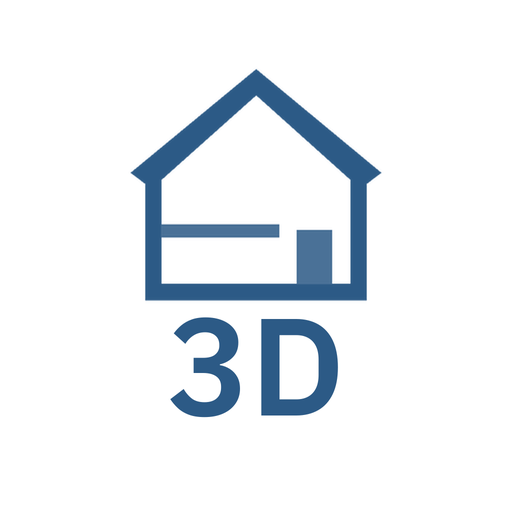
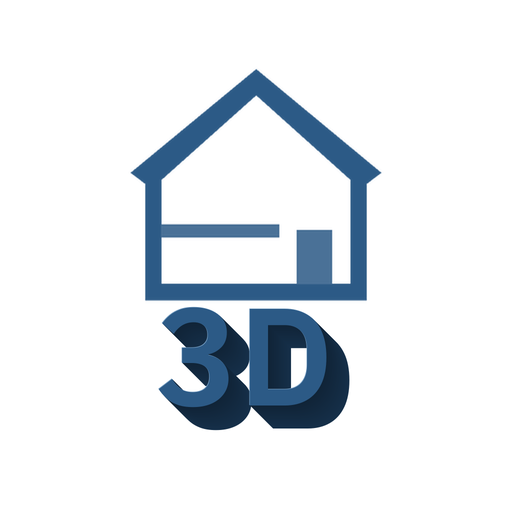
Icône : « 3D » en relief (demande de Mauro)
Claude-Session: https://claude.ai/code/session_01YRwZSgxCtXVm6EKCbHAFP6

Changed region(s): [[0.3125, 0.5938, 0.6875, 0.8438]]

diff --git a/outils/icone_app.py b/outils/icone_app.py
@@ -7,7 +7,7 @@ apple-touch-icon2.png (180, sans transparence), favicon2-64.png. Usage : python3
 import os
 from PIL import Image, ImageDraw, ImageFont
 R=os.path.join(os.path.dirname(os.path.abspath(__file__)),'..'); IC=os.path.join(R,'icones')
-BLEU=(44,90,134); BLANC=(255,255,255)
+BLEU=(44,90,134); BLANC=(255,255,255); FONCE=(22,48,74); CLAIR=(120,160,196)
 src=Image.open(os.path.join(IC,'source-maison.png')).convert('RGBA'); S=src.size[0]
 # part de dessin (blanc) dans chaque pixel de l'ancienne icône : canal rouge, fond 44 → dessin 255
 dessin=Image.new('L',(S,S)); px=src.load(); q=dessin.load()
@@ -19,9 +19,16 @@ def carre(T):
     # maison : 50 % de large, posée à partir de 13 % de haut ; « 3D » en dessous, en gras, centré
     lm=int(T*0.50); m=maison.resize((lm,int(maison.size[1]*lm/maison.size[0])),Image.LANCZOS)
     teinte=Image.new('RGBA',m.size,BLEU+(255,)); im.paste(teinte,((T-m.size[0])//2,int(T*0.13)),m)
+    # « 3D » en relief (Mauro, 15 octobre 2026 : « j'aimerais que ça fasse 3D ») : lettres extrudées vers le bas à droite,
+    # côté bleu foncé, face bleue, fine arête claire en haut à gauche
     d=ImageDraw.Draw(im); font=ImageFont.truetype(os.path.join(R,'polices','IBMPlexSans-SemiBold.ttf'),int(T*0.27))
-    tb=d.textbbox((0,0),'3D',font=font); tw=tb[2]-tb[0]; th=tb[3]-tb[1]
-    d.text(((T-tw)/2-tb[0],int(T*0.62)-tb[1]),'3D',fill=BLEU+(255,),font=font)
+    tb=d.textbbox((0,0),'3D',font=font); tw=tb[2]-tb[0]
+    prof=max(2,int(T*0.045)); x0=(T-tw)/2-tb[0]-prof/2; y0=int(T*0.60)-tb[1]
+    for i in range(prof,0,-1):
+        k=i/prof; cote=tuple(int(FONCE[j]*(0.75+0.25*k)) for j in range(3))
+        d.text((x0+i,y0+i),'3D',fill=cote+(255,),font=font)
+    d.text((x0-1,y0-1),'3D',fill=CLAIR+(255,),font=font)
+    d.text((x0,y0),'3D',fill=BLEU+(255,),font=font)
     return im
 def arrondi(im,r):
     T=im.size[0]; m=Image.new('L',(T,T),0); ImageDraw.Draw(m).rounded_rectangle((0,0,T-1,T-1),radius=r,fill=255); im=im.copy(); im.putalpha(m); return im

diff --git a/CLAUDE.md b/CLAUDE.md
@@ -639,7 +639,7 @@ Rendre la maquette conforme à la réalité pièce par pièce, d'après les phot
 - 15 octobre 2026 (nuit) : **audit complet de l'application** (demande de Mauro : « tests nécessaires sous forme d'audit méticuleux et professionnel », correction des problèmes mineurs, feedback structuré et propositions). **Série complète** : 201 vérifications, 198 vertes et 3 attentes périmées des tests (nom du bouton « Ouvrir » avec les éclairages, « Base d’origine » au lieu de « Base », suivi Tripo dans `.ph-suivi`), mises à jour et relancées (11 / 11). **Connecteurs** (script `connecteurs.py` du scratchpad, jeton jamais affiché) : les 9 workflows n8n actifs, Airtable à travers n8n (6 variantes, 31 photos dont 30 calées, 1 produit, 1 rendu), relecture d'un fichier (morceaux numérotés depuis 0 ; refus = HTTP 200 + `{ok:false, code:401}`), Tripo (9 850 crédits), Sketchfab (compte mauro7003), Poly Haven (521 modèles), kie.ai par n8n et en direct (10 906 crédits, 6 modèles de rendu, 6 de création), Boutique (IKEA BILLY : photo, nom, 80 × 28 × 202), Blender (PC portable vu, 1 demande « https » en échec du 1er essai), Assistant (demande réelle → B / blender), Familia (fausse clé refusée, 403), site (noindex, sw.js sans cache), CDN. **n8n** : 9 exécutions en erreur depuis le 10 octobre, toutes « Lire Airtable » (2 avec l'ancienne clé le 10, 7 pendant la coupure Airtable du 12) → nouvel essai et délais ajoutés (voir « Comptes et synchronisation »), workflows republiés. **Structure** (API simulée) : 0 fuite vers le ciel dans les 11 pièces (760 000 rayons), 0 jour aux 18 portes et ouvrants, fentes / pieds de murs / carrelages : seulement les faux positifs connus (épaisseur des murs, pied de la pente nord, muret de la baignoire, faïence 2 mm devant la peinture), vérifiés par 8 gros plans ; les scripts d'audit du scratchpad branchent désormais l'API simulée (écran de connexion). **Tour visuel** : 22 captures de la base d'origine (maquette, plans, 11 pièces en 1re personne, soir, nuit, rendu réaliste) et 22 de la base « Réalisme » en ligne en lecture seule (envois bloqués, lecture des fichiers permise) : aucune erreur console, aucun défaut d'affichage ; remarques de design : les 30 appareils photo des points de vue encombrent la maquette et couvrent des noms sur le plan ; reflet très vif de la pièce « studio » sur le granit noir de l'îlot en rendu réaliste ; en vue « Tout », les noms des pièces du rez et de l'étage se superposent. **Interface** (48 captures, PC 1366 px et téléphone 390 px, clair et sombre : menus, panneau en onglets, assistant, fenêtres, plan, 1re personne) : un défaut corrigé, l'entrée **« 📷 Photos : y aller »** du menu « Aller à » se coupait mot par mot sur trois lignes sur PC (le sous-titre « là où elles ont été prises », insécable, prenait la largeur) → titre sur une ligne et sous-titre dessous (`#aller-photos` en colonne, `css/app.css`) ; les fenêtres (Photo réaliste, Produits, Blender…) ne se ferment par Échap que si le clavier est dans la fenêtre (le bouton de la barre garde le focus) → **corrigé le 15 octobre 2026** (« Ok » de Mauro) : `fenetreEchap()` dans `barre.js`, écouteur sur la page : Échap ferme la fenêtre ouverte la plus haute (`.fenetre`, visionneuse, montage ; bouton « Fermer » de sa tête) quand le clavier n'est pas dans une fenêtre ; dedans, chaque fenêtre garde son propre écouteur. Test `chk_echap.mjs` (9 vérifications : Photo réaliste, Produits, visionneuse puis galerie, menu « Aller à », panneau photo avec Blender en premier, fenêtre Blender, aucune erreur). **Statique** : aucun identifiant en double, toutes les icônes connues, aria-label partout, CSS équilibré, tokens tous définis, fichiers du cache présents, 13 177 lignes sans erreur de syntaxe. **Données** : 182 fichiers dans Airtable dont 174 utilisés, 8 orphelins (≈ 2 Mo, essais du 10 octobre et anciens stores) → **7 supprimés le 15 octobre 2026** (« Oui » de Mauro : Fauteuil, Sofa_Single, CHAIR, deux « Objet (photo) », FRIHETEN, ancien « Store plissé (coin bureau) ») ; le 8e, « blender https 1 » (637 Ko, image du premier essai du pont), était encore cité par la demande Blender « https » en échec de la file : demande retirée (action `supprimer` du workflow, « Enlève-le toi » de Mauro) puis fichier supprimé ; file vide, 174 fichiers, tous utilisés ; « Projet 4 » recréé par Mauro dans la base Réalisme (v17) ; comptes mauro et tamara. Rappel programmé pour le 15 octobre à 8 h 30 (sauvegardes GitHub et Airtable).
 - 15 octobre 2026 (matin) : réponses de Mauro à l'audit, **lot « audit 2 »** fait et publié : réalisme 3, 4, 6 (**ciel en photo** : 4 panoramas Poly Haven dans `ciel/`, dôme tourné vers le soleil ; **ombres du soleil** en option, `ombres.js` ; **reflet** adouci sur les matières très lisses des objets importés en rendu réaliste) ; graphisme 1 (une couleur d'accent, **boutons de la barre plus petits** sur PC, état enfoncé plein), 2 (**écran d'entrée** : fond flouté, logo), 3 (**chargement** : silhouette du plan qui se remplit), 4 (icônes à la même taille), 5 (**vignettes** dans la liste des meubles, `vignettes.js`, et **pastilles par pièce**), 6 (menus au même gabarit, **« Affichage » en trois groupes repliables**), 7 (**points de vue regroupés** en maquette et sur le plan), 9 (infobulle plus discrète), 10 (**bandeaux** sur une ligne fine colorée par type), 11 (**zones de toucher de 44 px** sur tablette) ; refusés : 8 (noms des pièces en vue « Tout »), 12 (aide et visite guidée) ; « Photo HD » abandonnée. Réponses données : lumière précalculée (rien à remodeler, 2 à 4 Mo de plus, zéro coût à l'affichage, cuire sans les meubles mobiles), textures de surface et sols / parquets (images répétables de 0,1 à 0,3 Mo posées sur les surfaces actuelles, Poly Haven d'abord, Blender pour ce qui manque). **Prochain lot, après celui-ci** (Mauro : « on passe aux 3 points suivants ») : lumière précalculée dans Blender, textures de surface, sols et parquets.
 - 15 octobre 2026 (suite) : trois retouches de Mauro après le lot « audit 2 » : **ombres de contact et ombres du soleil dans le menu du bouton « Réaliste »** (avec la ligne « Rendu réaliste » ; `index.html`, `realiste.js`, `ombres.js`, `barre.js`), **lignes « Lumière » et « Rendu » retirées du menu « Affichage »** (« on a l'icône » ; `calques.js` ; « Tout décocher » ne touche plus qu'aux cases du menu et à la vue éclatée ; l'assistant règle le soir par `choisirLumiere()`), et **lampe boule ajourée de la sellette** : tous les trous brillent (règle des alvéoles dans `lampes.js`, sans passer par Blender ; voir « Noms des matières des objets importés gardés »). Tests adaptés (`test_l1.mjs`, `chk_barre.mjs`, `chk_lot2.mjs`, `chk_realiste2.mjs`) ; `chk_barre` vert (34), lampe vérifiée par rendu de l'objet seul. **Publié** (Mauro : seulement les tests de la nouveauté, il teste en prod). Puis, capture de Mauro (vue Rez de la base Réalisme, « ça scintille sur l'armoire et le bloc cuisine ») : **couvercles de coupe pour les objets ajoutés** (`coupes.js`, `ajouts.js` ; voir « Coupes bouchées ») ; test local (6 vérifications) et captures de dessus de la vraie base en lecture seule avant / après. **Publié.** Prochain lot : lumière précalculée dans Blender, textures de surface, sols et parquets.
-- 15 octobre 2026 (après-midi) : Mauro découpe le lot en **3 phases** (lumière précalculée, textures de surface, sols et parquets), une finie avant la suivante, **10 minutes de tests au plus** désormais. **Phase 1 : lumière précalculée** (voir Technique du site) : export de la structure telle que le site la construit, cuisson Cycles dans le conteneur (bpy 5.2.2, 80 s), atlas de 288 Ko posé en lightMap sur les 72 maillages de la structure, case « Lumière précalculée » dans le menu « Réaliste », ambiance baissée à 60 %, murs transparents compatibles ; test `chk_cuisson.mjs` (11 vérifications, 1 min) et captures avant / après. Puis **icône de l'application** (Mauro : « on la voit pas bien sur mon fond », « A avec écrit sous la maison 3D ») : fond blanc, maison bleue, « 3D » dessous, nouveaux fichiers `icone2-*`. **Publié.** Prochaine phase : textures de surface (phase 2), puis sols et parquets (phase 3).
+- 15 octobre 2026 (après-midi) : Mauro découpe le lot en **3 phases** (lumière précalculée, textures de surface, sols et parquets), une finie avant la suivante, **10 minutes de tests au plus** désormais. **Phase 1 : lumière précalculée** (voir Technique du site) : export de la structure telle que le site la construit, cuisson Cycles dans le conteneur (bpy 5.2.2, 80 s), atlas de 288 Ko posé en lightMap sur les 72 maillages de la structure, case « Lumière précalculée » dans le menu « Réaliste », ambiance baissée à 60 %, murs transparents compatibles ; test `chk_cuisson.mjs` (11 vérifications, 1 min) et captures avant / après. Puis **icône de l'application** (Mauro : « on la voit pas bien sur mon fond », « A avec écrit sous la maison 3D ») : fond blanc, maison bleue, « 3D » dessous, nouveaux fichiers `icone2-*`. **Publié.** Puis, Mauro : « le 3D dans l'icône, j'aimerais que ça fasse 3D, là tout est plat » → **« 3D » en relief** (lettres extrudées vers le bas à droite, côté bleu foncé, arête claire ; `outils/icone_app.py`). **Publié.** Prochaine phase : textures de surface (phase 2), puis sols et parquets (phase 3).
 
 ## À rappeler à Mauro
 
